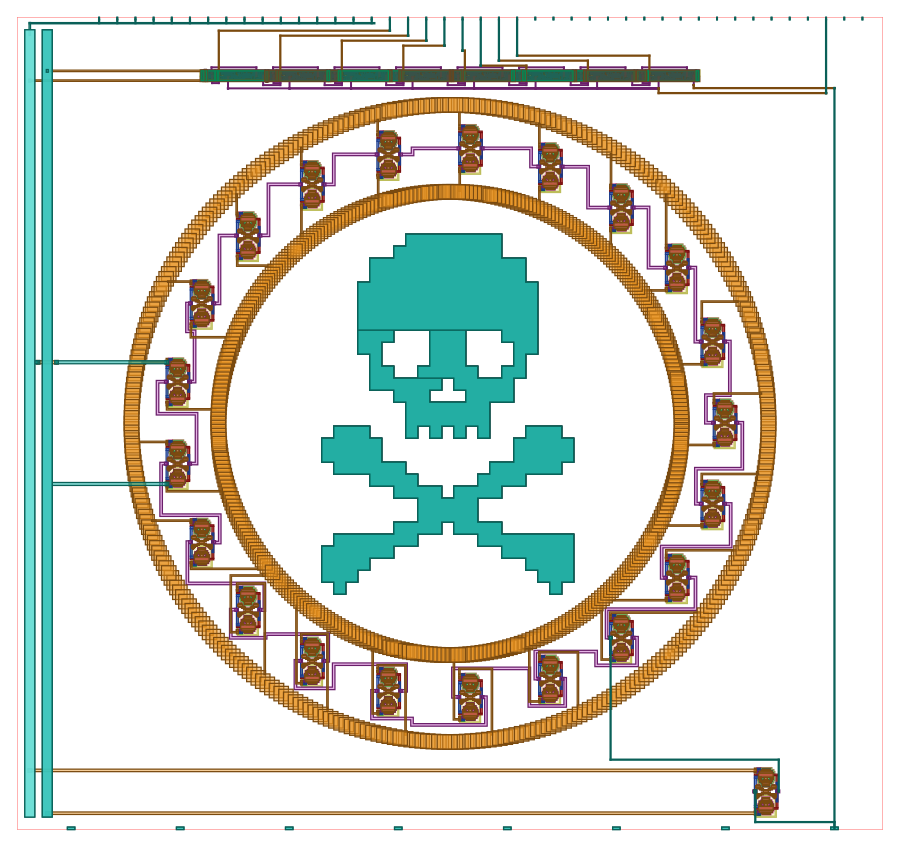
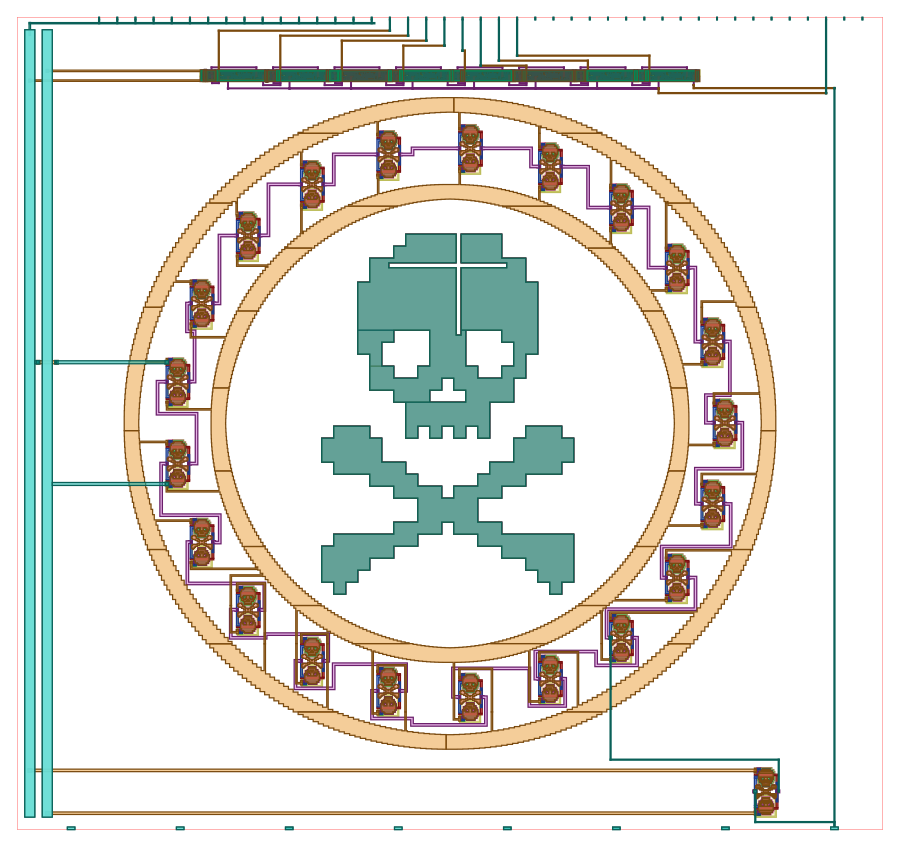
feat: update project tt_um_oscillating_bones from urish/ttgf-oscillating-bones
Commit: 39edeba732d2510d3b416c92d3b355bf266cb34f
Workflow: https://github.com/urish/ttgf-oscillating-bones/actions/runs/27502323358

Changed region(s): [[0.1244, 0.0614, 0.8711, 0.8902], [0.0311, 0.0307, 0.0622, 0.9823], [0.2178, 0.0614, 0.2489, 0.0921]]

diff --git a/projects/tt_um_oscillating_bones/docs/info.md b/projects/tt_um_oscillating_bones/docs/info.md
@@ -19,7 +19,8 @@ This is the **gf180mcu** (GlobalFoundries 180nm) port of the design, migrated fr
 IHP sg13g2 version. The SkullFETs are **3.3V devices** running directly on the 3.3V core supply
 (VDPWR). The skull artwork is preserved verbatim from the original; only the layer stack, device
 implants and feature sizes were retargeted to gf180mcuD (a uniform 1.45× scale clears the 180nm
-minimum width/spacing/gate rules — see `scripts/remap_to_gf180.py`).
+width/spacing/gate rules; grid-snap, exact-cut and metal-slot passes then make it KLayout
+sign-off-clean — see `scripts/remap_to_gf180.py`).
 
 ![Layout](layout.png)
 